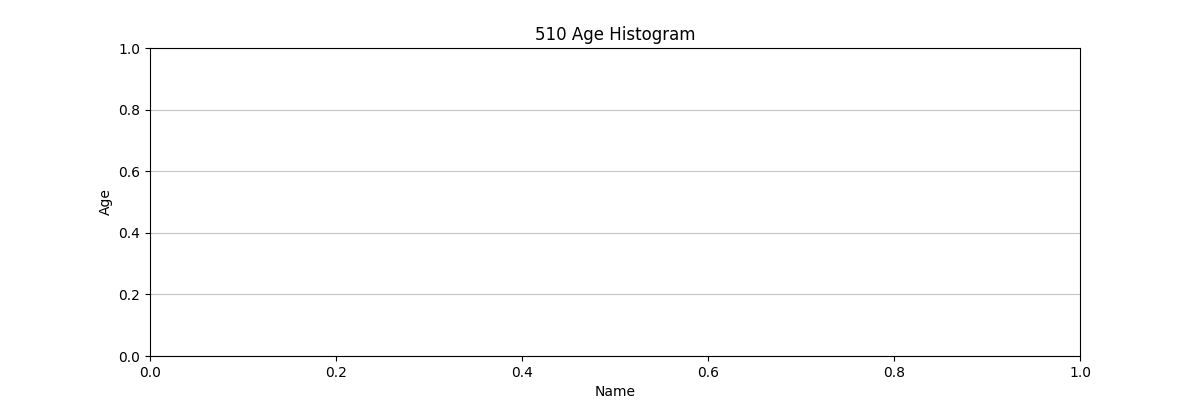
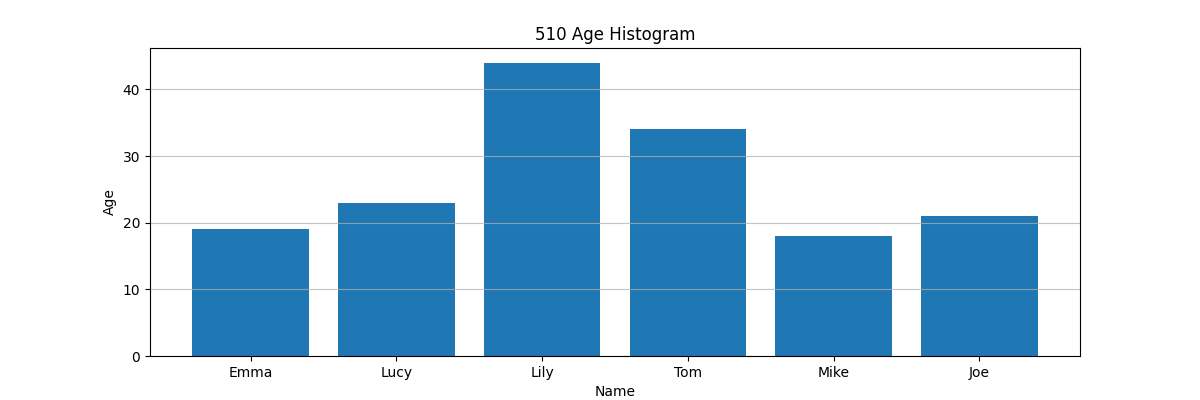
First commit

diff --git a/scripts/histogram.py b/scripts/histogram.py
@@ -5,8 +5,9 @@ import matplotlib.pyplot as plt
 
 path= "/home/bingjing/assignments/trgn_assignment3b/scripts/expression_analysis.csv"
 df=pd.read_csv(path)
-fig = plt.figure(figsize=(12,4))    
-
+fig = plt.figure(figsize=(12,4))  
+  
+plt.bar(df['Name'], df['Age'])
 plt.grid(axis='y', alpha=0.75)
 plt.xticks(fontsize=10)
 plt.xlabel('Name')
